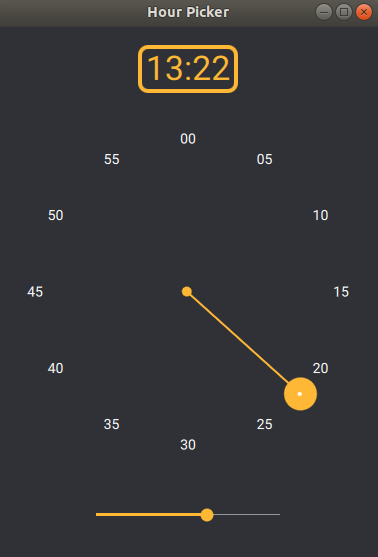
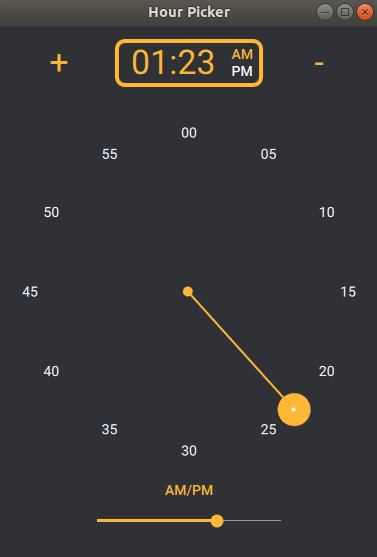
TimePicker - V1 (Am Clock)

diff --git a/qml/main.qml b/qml/main.qml
@@ -13,14 +13,18 @@ Qaterial.ApplicationWindow
     property int hour: 0
     property int minute: 0
     property bool hourVisible: true
+    property bool amHour: false
+    property bool am: true
+
+
 
     //Affichage de l'heure sélectionnée
     Rectangle
     {
         id: hourPrint
         anchors.horizontalCenter: parent.horizontalCenter
-        y: _hourPicker.y - (30 + height)
-        width: 100
+        y: _euHourPicker.y - (30 + height)
+        width: amHour ? (_switchHourMinute.width + _am.width + 10) : _switchHourMinute.width
         height: _switchHourMinute.height
 
         color: "transparent"
@@ -30,7 +34,7 @@ Qaterial.ApplicationWindow
         Qaterial.FlatButton
         {
             id: _switchHourMinute
-            anchors.fill: parent
+            anchors.verticalCenter: parent.verticalCenter
             function pad (num, size) {
                 let s = num+"";
                 while (s.length < size) s = "0" + s;
@@ -44,15 +48,58 @@ Qaterial.ApplicationWindow
                 window.hourVisible = !window.hourVisible
             }
         }
+        Column
+        {
+            id: am_pm
+            anchors.verticalCenter: parent.verticalCenter
+            x: _switchHourMinute.width
+
+            Qaterial.Label
+            {
+                id: _am
+                text: "AM"
+                textType: Qaterial.Style.TextType.Button
+                color: window.am ? Qaterial.Style.accentColor : "white"
+                visible: amHour
+            }
+            Qaterial.Label
+            {
+                id: _pm
+                text: "PM"
+                textType: Qaterial.Style.TextType.Button
+                color: !window.am ? Qaterial.Style.accentColor : "white"
+                visible: amHour
+            }
+
+        }
+        MouseArea
+        {
+            anchors.fill: am_pm
+            enabled: amHour
+            onClicked: window.am = !window.am
+        }
     }
 
     EuCircularHourPicker
     {
-        id: _hourPicker
+        id: _euHourPicker
+
         anchors.centerIn: parent
         radius: _slider.value
         hour: window.hour
-        visible: hourVisible
+        visible: hourVisible && !amHour
+
+        onAccepted: (hour) => window.hour = hour
+    }
+
+    AmCircularHourPicker
+    {
+        id: _amHourPicker
+
+        anchors.centerIn: parent
+        radius: _slider.value
+        hour: window.hour
+        visible: hourVisible && amHour
 
         onAccepted: (hour) => window.hour = hour
     }
@@ -89,9 +136,21 @@ Qaterial.ApplicationWindow
     {
         id: _slider
         anchors.horizontalCenter: parent.horizontalCenter
-        y: _hourPicker.y + _hourPicker.height + 30
+        y: _euHourPicker.y + _euHourPicker.height + 30
         from: 80
         to: 200
         value: 150
+    }
+    Qaterial.FlatButton
+    {
+        id: amEuHourChanger
+        anchors.horizontalCenter: parent.horizontalCenter
+        y: _euHourPicker.y + _euHourPicker.height
+        onClicked:
+        {
+            amHour = !amHour
+        }
+        text: amHour ? "Am/Pm" : "Eu"
+        textType: Qaterial.Style.TextType.Button
     }
 }

diff --git a/README.md b/README.md
@@ -1,2 +1,85 @@
 # TimePicker
 
+**TimePicker** is a litte project which allow you to pick a time on European or American Clock. Its components are intended to be a part of **Qaterial** library (Cf [QaterialGallery](https://olivierldff.github.io/QaterialGallery/))
+
+### Overview
+
+#### Hour Picker (EU way)
+
+![Screen showing an example of the HourPicker](./docs/README_files/HourPickerEu.png)
+
+#### Hour Picker (Am way)
+
+![Screen showing an example of the HourPicker](./docs/README_files/HourPickerAm.png)
+
+#### Minute Picker
+
+![Screen showing an example of the HourPicker](./docs/README_files/MinutePicker.png)
+
+### Build
+
+````bash
+git clone https://github.com/CedricLeon/TimePicker.git
+mkdir build && cd build
+cmake -DCMAKE_PREFIX_PATH=/your/Qt/gcc_64/path ..
+make -j2
+./TimePicker
+````
+
+### Components : Code Example
+
+#### EuCircularHourPicker
+
+Allow to pick hour from 0 to 23 (Eu way)
+
+````js
+EuCircularHourPicker
+{
+    radius: 150			// default: 100
+    currentHour: 5		// default: 0
+    onAccepted: (hour) => console.log(`hour: ${hour}`)
+}
+````
+
+#### AmCircularHourPicker
+
+Allow to pick hour from 1 to 12 (American way)
+
+````js
+AmCircularHourPicker
+{
+    radius: 150			// default: 100
+    currentHour: 5		// default: 0    
+    onAccepted: (hour) => console.log(`hour: ${hour}`)
+}
+````
+
+#### CircularMinutePicker
+
+Allow to pick minute from 0 to 59
+
+````js
+CircularMinutePicker
+{
+    radius: 150			// default: 100
+    currentHour: 28		// default: 0
+    onAccepted: (minute) => console.log(`minute: ${minute}`)
+}
+````
+
+#### CircularPathLabel
+
+Display data in a circular path, is able to highlight an element
+
+````js
+CircularPathLabel
+{
+    radius: 150				// default: 100
+    numberOfElement: 5      // default: 12
+    model: ["0", "1", "2", "3", "4"] // default: hours of the day
+    currentIndex: 3         // "highlighted" element, default: -1
+}
+````
+
+
+
